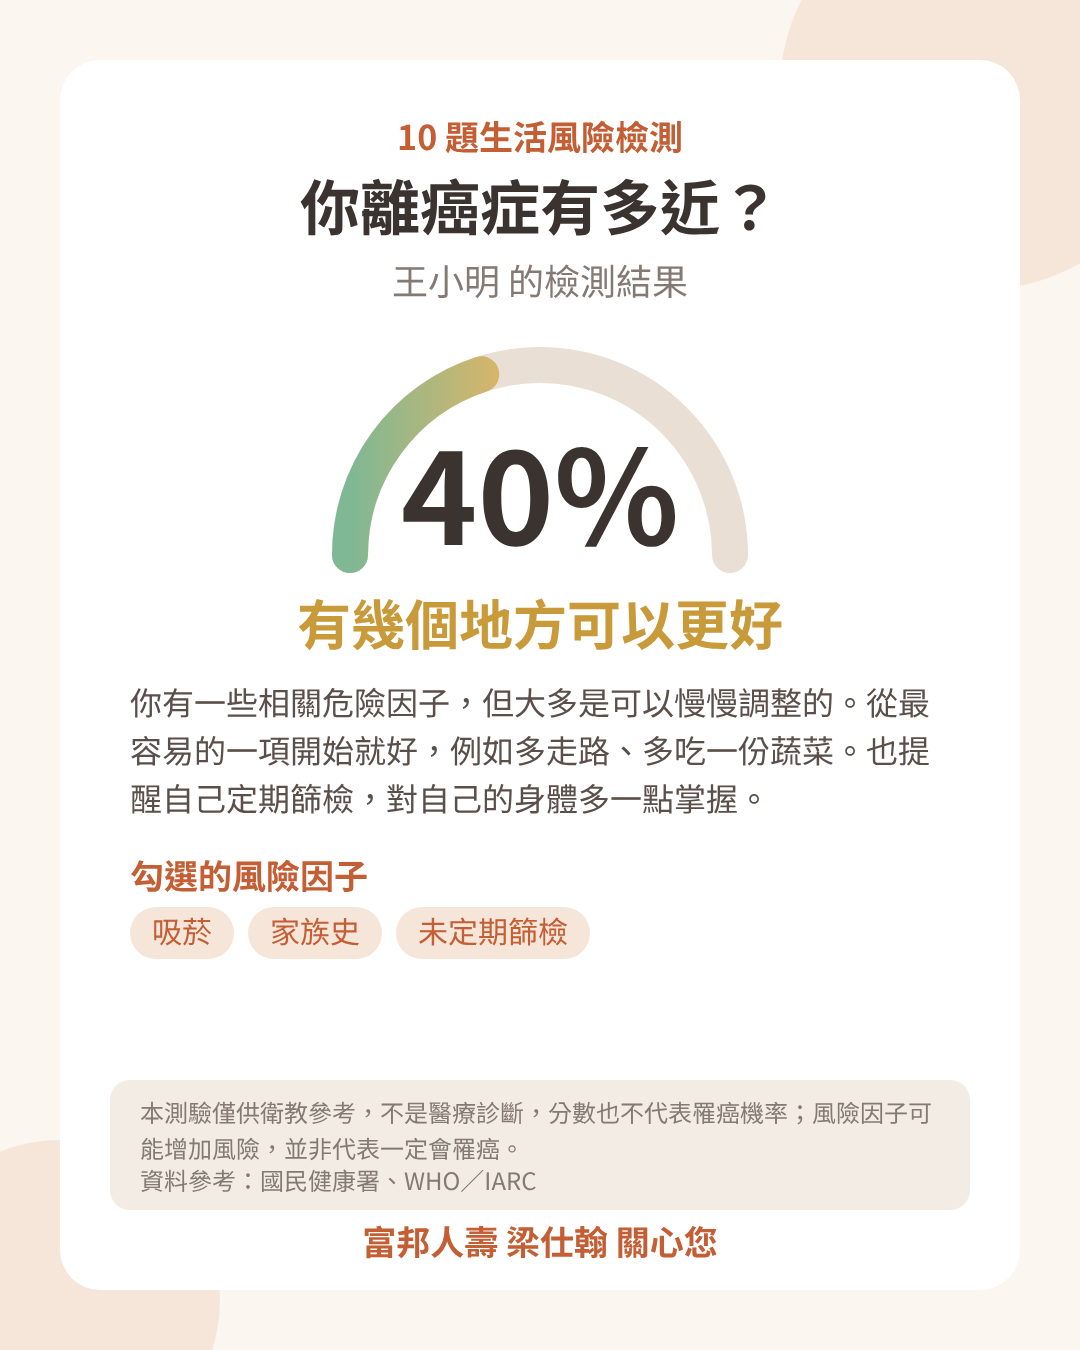
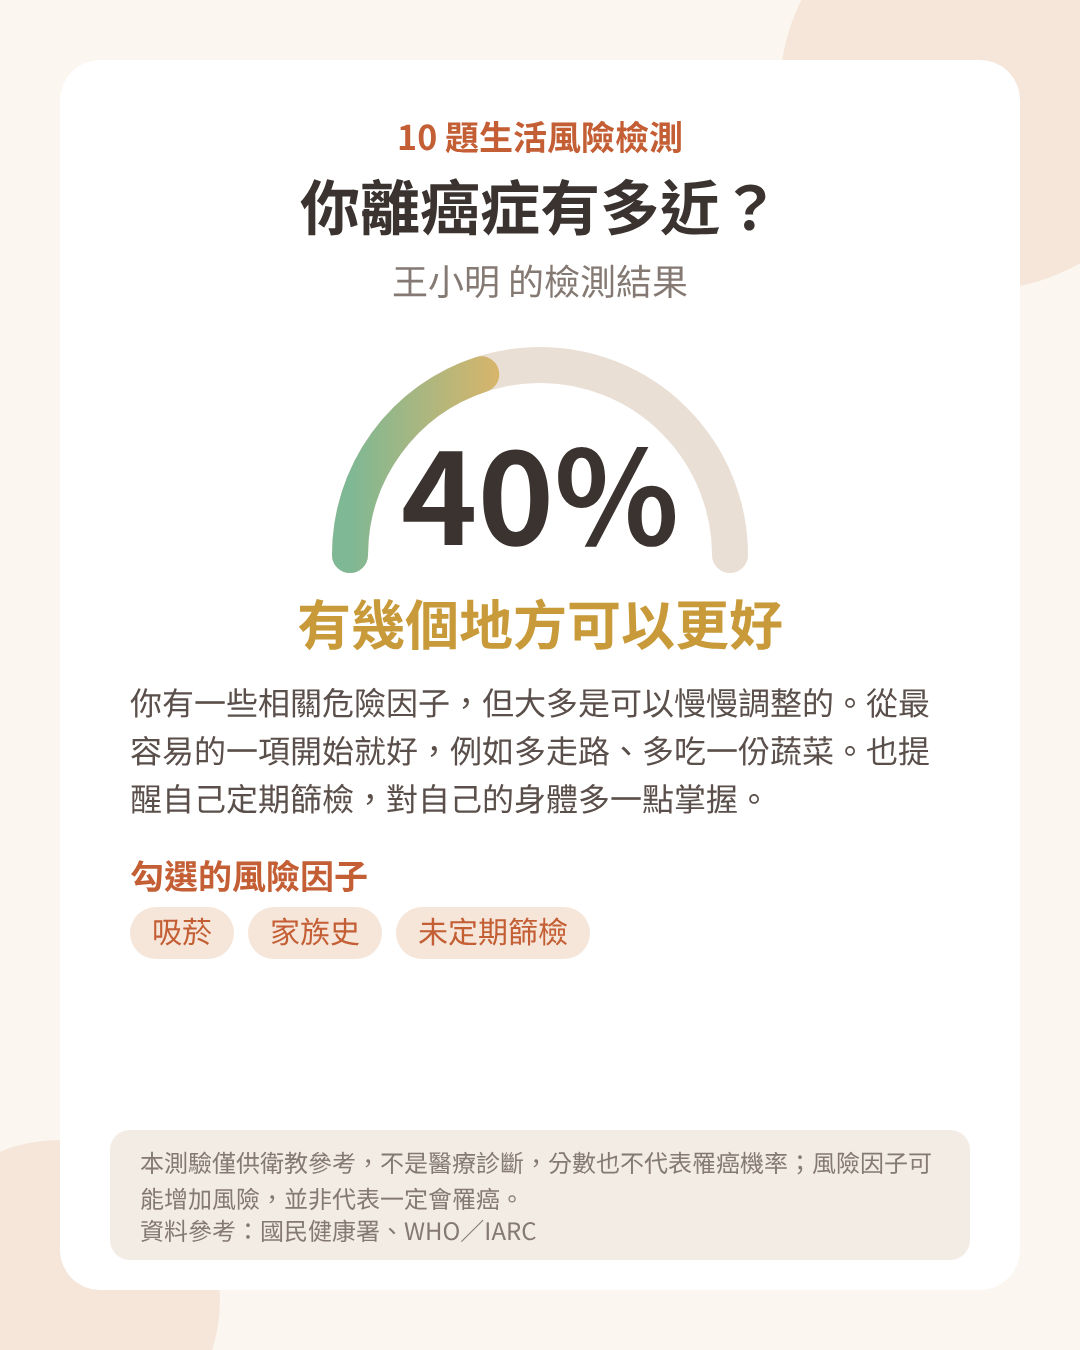
Remove footer

Changed region(s): [[0.0917, 0.7778, 0.9167, 0.9333]]

diff --git a/index.html b/index.html
@@ -77,8 +77,7 @@ h2{font-size:18px;margin:0 0 10px}
     <p class="muted" style="margin:8px 0 0">名字只會出現在你的結果圖片上，不會傳送到任何地方。</p>
   </div>
   <div class="disc">本測驗僅供衛教參考，不是醫療診斷，分數也不代表罹癌機率；風險因子可能增加風險，並非代表一定會罹癌。</div>
-  <div style="margin-top:auto;padding-top:20px"><button class="btn btn-pri" id="startBtn">開始檢測</button></div>
-  <div class="foot">富邦人壽 梁仕翰 關心您</div>
+  <div style="margin-top:auto;padding-top:20px;padding-bottom:8px"><button class="btn btn-pri" id="startBtn">開始檢測</button></div>
 </section>
 
 <section class="screen" id="s-quiz">
@@ -117,7 +116,6 @@ h2{font-size:18px;margin:0 0 10px}
     <div id="imgBox"><p class="muted">iPhone 使用者：長按圖片即可儲存到相簿</p><img id="cardImg" alt="檢測結果圖片"></div>
     <button class="btn btn-ghost" id="retryBtn">重新測驗</button>
   </div>
-  <div class="foot">富邦人壽 梁仕翰 關心您</div>
 </section>
 </div>
 
@@ -192,9 +190,8 @@ function drawCard(){
   if(!checked.length){x.fillStyle="#5f9e7a";x.fillText("沒有勾選任何風險因子，繼續保持！",130,y);y+=50}
   else{let col=0;checked.forEach((q,i)=>{const t=q[1];x.font="500 30px "+FONT;const w=x.measureText(t).width+44;if(col+w>820){col=0;y+=64}
     x.fillStyle="#f6e6da";rr(x,130+col,y-38,w,52,26);x.fill();x.fillStyle="#c45f35";x.fillText(t,130+col+22,y-2);col+=w+14});y+=50}
-  x.fillStyle="#f3ece4";rr(x,110,1080,860,130,20);x.fill();
-  x.fillStyle="#857a73";x.font="400 24px "+FONT;wrap(x,DISC,140,1122,800,36,2);x.fillText("資料參考：國民健康署、WHO／IARC",140,1190);
-  x.textAlign="center";x.fillStyle="#c45f35";x.font="700 34px "+FONT;x.fillText("富邦人壽 梁仕翰 關心您",540,1255);
+  x.fillStyle="#f3ece4";rr(x,110,1130,860,130,20);x.fill();
+  x.fillStyle="#857a73";x.font="400 24px "+FONT;wrap(x,DISC,140,1172,800,36,2);x.fillText("資料參考：國民健康署、WHO／IARC",140,1240);
   return c;
 }
 $('dlBtn').onclick=async()=>{try{await document.fonts.ready}catch(e){}
